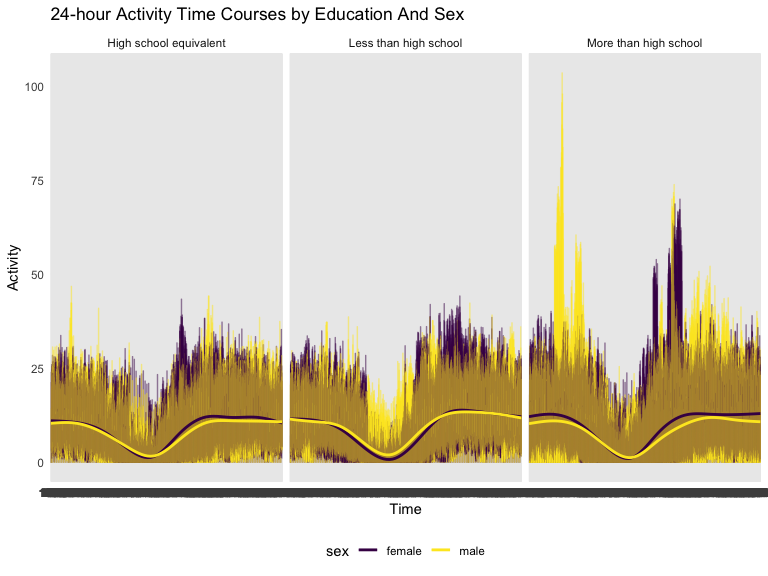
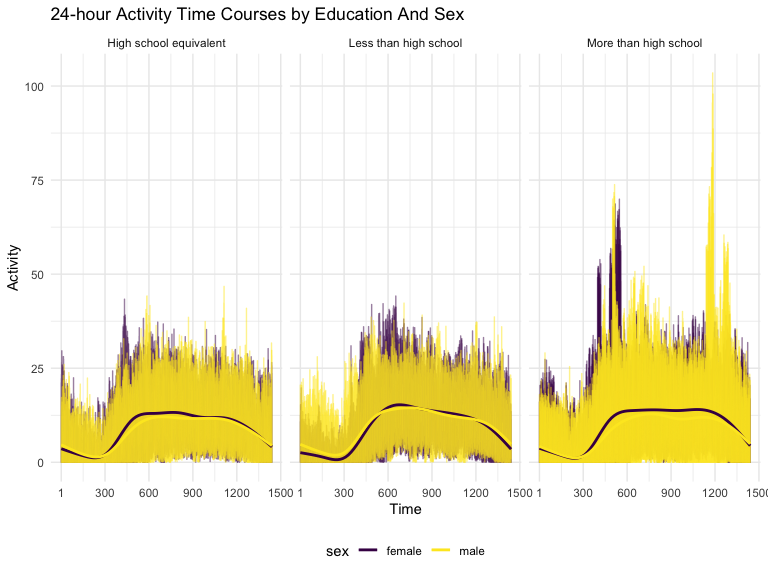
fix some problem

diff --git a/p8105_hw3_zz3168.md b/p8105_hw3_zz3168.md
@@ -296,6 +296,9 @@ accel_data =
     names_to = "number_time",
     values_to = "activity_time",
     names_prefix = "min"
+  ) |> 
+  mutate(
+    number_time = as.numeric(number_time)
   )
 ```
 
@@ -391,6 +394,10 @@ nahanes_merge |>
     x = "Time",
     y = "Activity",
     title = "24-hour Activity Time Courses by Education And Sex "
+  )+
+  scale_x_continuous(
+    breaks = c(1,300,600,900,1200,1500),
+    labels = c("1","300","600","900","1200","1500")
   )
 ```
 
